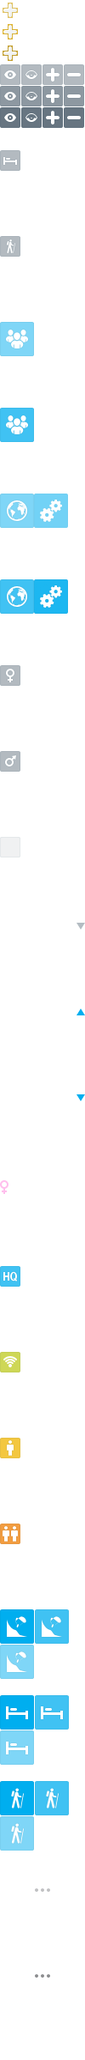
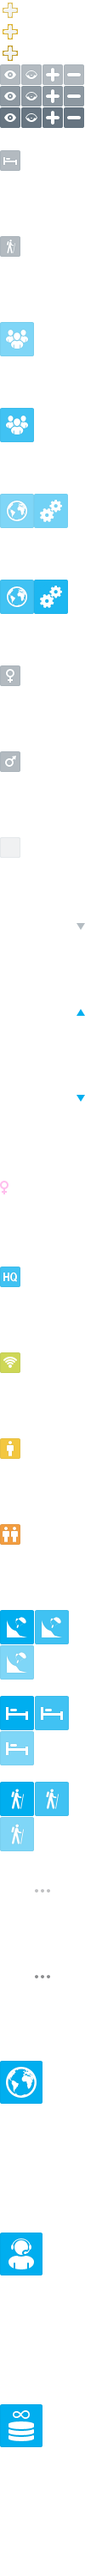
Issue #3796 styled solution page

diff --git a/sites/all/themes/airtribune2/css/global.styles.css b/sites/all/themes/airtribune2/css/global.styles.css
@@ -3317,7 +3317,7 @@ html.fb_view { overflow: auto;}
   /* Solutions Hosting */
 
 .solutions_hosting { padding-top: 26px;}
-.solutions_hosting .zoom_block_wrap { padding: 40px; margin-top: 25px;
+.solutions_hosting .zoom_block_wrap { padding: 40px; margin-top: 25px; margin-bottom: 17px;
 
   filter: progid:DXImageTransform.Microsoft.gradient(startColorstr='#ffffff', endColorstr='#eff0f1'); /* для IE6-9 */
   background: -webkit-linear-gradient(top, bottom, #ffffff 0%, #ffffff 55%, #eff0f1 100%); /* для webkit-браузеров */
@@ -3334,3 +3334,56 @@ html.fb_view { overflow: auto;}
 .solutions_hosting .zoom_text a { color: #a4bb15; font-size: 30px}
 .solutions_hosting .zoom_block { float: right; background: #ffffff; border: 1px solid #e1e6e9; padding: 20px 36px 20px 46px;}
 .solutions_hosting .cloud-zoom-big { width: 371px !important; height: 391px !important; border: 1px solid #e1e6e9; background: #ffffff; top: -21px !important; left: -440px !important;}
+.solutions_hosting .block_cols {}
+.solutions_hosting .block_cols h2,
+.solutions_hosting .block_cols h3 { color: #d2dae0; font-size: 30px; line-height: 30px; font-weight: normal; padding-bottom: 32px; padding-top: 32px;}
+.solutions_hosting .block_cols h3 { color: #566570; margin: 0; padding: 0 0 8px;}
+.solutions_hosting .block_cols .block_col { float: left; width: 200px; margin: 0 30px 0 10px;}
+.solutions_hosting .block_cols .block_col_last { margin-right: 0;}
+
+.solutions_hosting .block_icons { color: #475159; font-size: 16px; padding-bottom: 15px;}
+.solutions_hosting .block_icons span { display: inline-block; vertical-align: middle;}
+.solutions_hosting .block_icons span.valign { width: 1px; height: 50px; overflow: hidden; margin-right: -1px;}
+.solutions_hosting .block_icons .block_col { padding-left: 60px; background: url(../images/table_action.png) no-repeat 0 -2600px; width: 140px; margin-top: 3px;}
+.solutions_hosting .block_icons .block_col_first { background-position: 0 -2400px}
+.solutions_hosting .block_icons .block_col_last { background-position: 0 -2800px}
+.solutions_hosting .feel_free { text-align: center; color: #a4bb15; font-size: 36px; line-height: 40px; margin: 78px 20px 0; padding-bottom: 54px;}
+.sulutions_accordeon {}
+.sulutions_accordeon .accordeon_title { font-size: 30px; line-height: 30px; color: #d2dae0; text-decoration: underline; cursor: pointer; margin-top: 20px; display: inline-block;}
+.sulutions_accordeon .accordeon_title:hover { color: #566570}
+.sulutions_accordeon .accordeon_inner { overflow: hidden; height: 0;
+
+  -moz-transition-duration: 300ms;
+  -webkit-transition-duration: 300ms;
+  -ms-transition-duration: 300ms;
+  -o-transition-duration: 300ms;
+  transition-duration: 300ms;
+
+}
+
+.solutions_hosting .create_event { padding-top: 102px; text-align: right; color: #333a40; font-size: 16px;}
+.solutions_hosting .create_event a { display: block; font-size: 30px; line-height: 30px; height: 30px; text-align: center; color: #ffffff; text-shadow: 0 1px 1px rgba(79, 87, 12, .15); text-decoration: none; padding: 22px 0 28px; margin-bottom: 8px;
+
+  filter: progid:DXImageTransform.Microsoft.gradient(startColorstr='#cdd925', endColorstr='#a4bb15'); /* для IE6-9 */
+  background: -webkit-linear-gradient(top, bottom, #cdd925 0%, #a4bb15 100%); /* для webkit-браузеров */
+  background: -webkit-gradient(linear, left top, left bottom, from(#cdd925), to(#a4bb15));
+  background: -moz-linear-gradient(top,  #cdd925 0%,  #a4bb15 100%); /* для firefox 3.6+ */
+  background: -o-linear-gradient(top,  #cdd925 0%,  #a4bb15 100%); /* для Opera 11.10+ */
+  background: -ms-linear-gradient(top,  #cdd925 0%,  #a4bb15 100%); /* для IE10+ */
+
+  -webkit-border-radius: 2px;
+  -moz-border-radius: 2px;
+  border-radius: 2px;
+
+}
+
+.solutions_hosting .create_event a:hover {
+
+  filter: progid:DXImageTransform.Microsoft.gradient(startColorstr='#d8e22a', endColorstr='#98b310'); /* для IE6-9 */
+  background: -webkit-linear-gradient(top, bottom, #d8e22a 0%, #98b310 100%); /* для webkit-браузеров */
+  background: -webkit-gradient(linear, left top, left bottom, from(#d8e22a), to(#98b310));
+  background: -moz-linear-gradient(top,  #d8e22a 0%,  #98b310 100%); /* для firefox 3.6+ */
+  background: -o-linear-gradient(top,  #d8e22a 0%,  #98b310 100%); /* для Opera 11.10+ */
+  background: -ms-linear-gradient(top,  #d8e22a 0%,  #98b310 100%); /* для IE10+ */
+
+}

diff --git a/sites/all/themes/airtribune2/js/airtribune2.js b/sites/all/themes/airtribune2/js/airtribune2.js
@@ -88,5 +88,19 @@ jQuery(function ($) {
     //alert(el);
     el.find('span').css({'max-width': width - delta});
   }
+  $('.sulutions_accordeon .accordeon_inner').each(function(){
+    $(this).height('auto');
+    $(this).attr('rel', $(this).height());
+    $(this).height(0);
+  });
+  $('.sulutions_accordeon .accordeon_title').click(function(){
+    el = $(this).next();
+    if(el.height() == 0){
+      el.height(el.attr('rel'));
+    }
+    else{
+      el.height(0); 
+    }
+  })
 })
 
